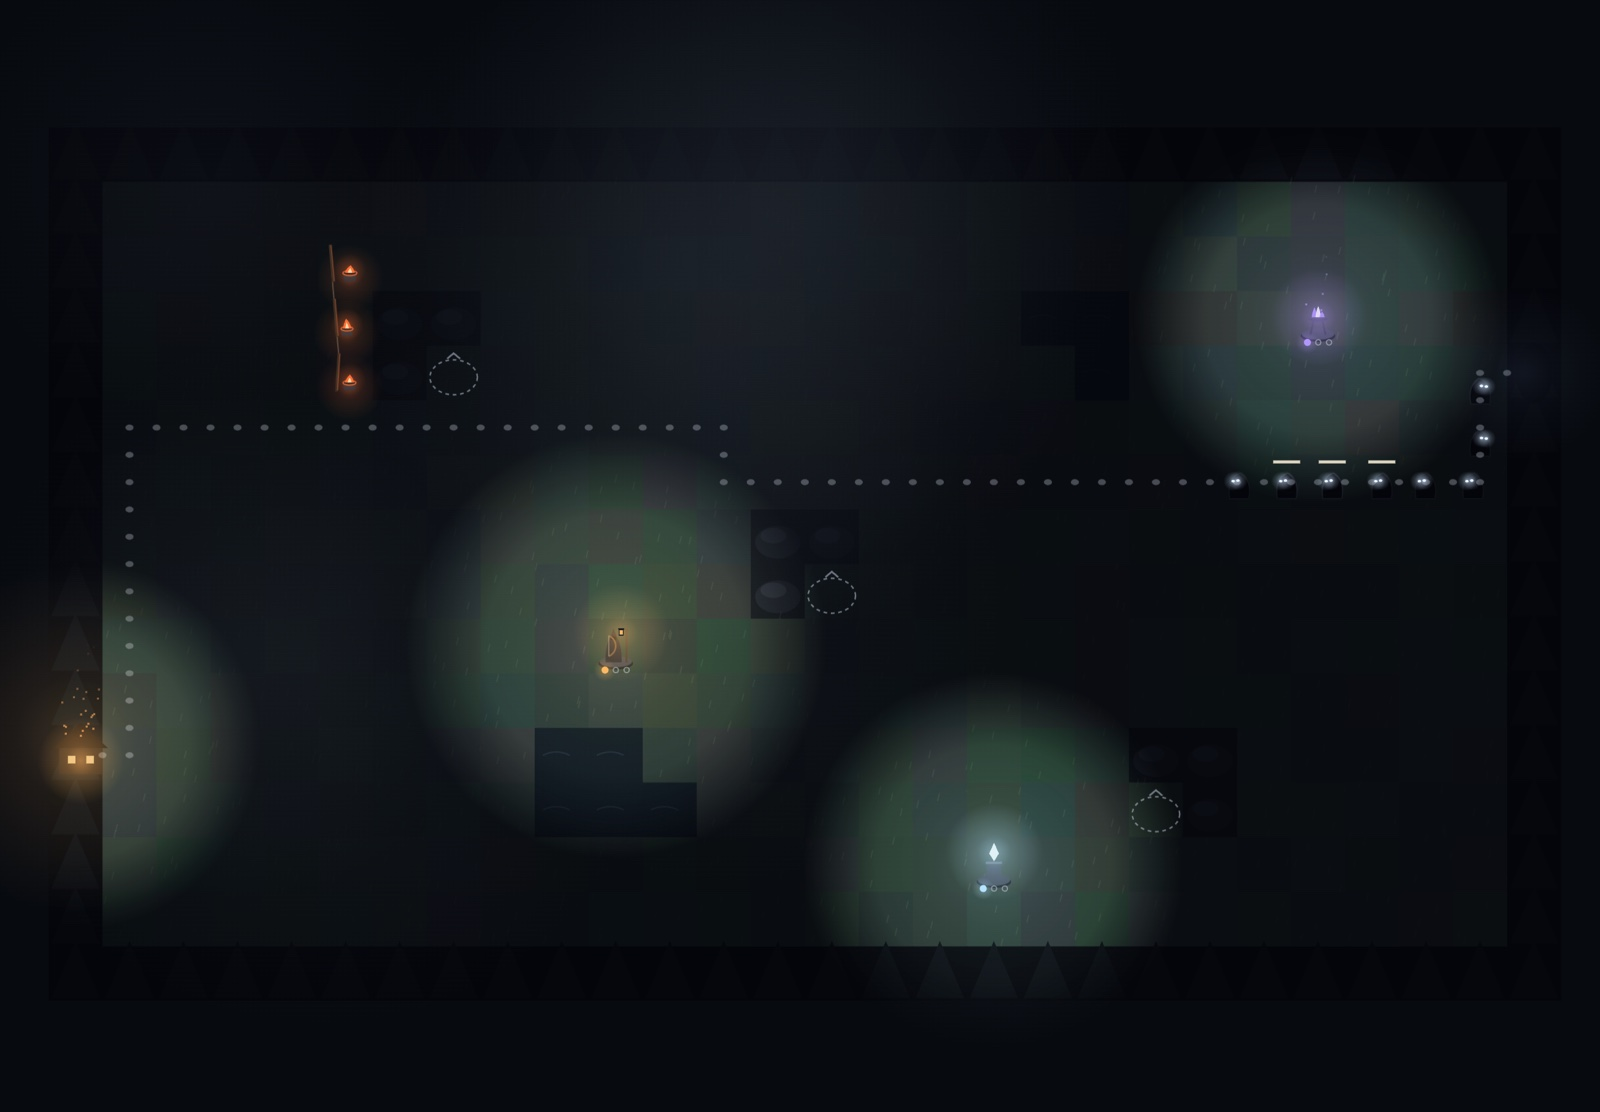
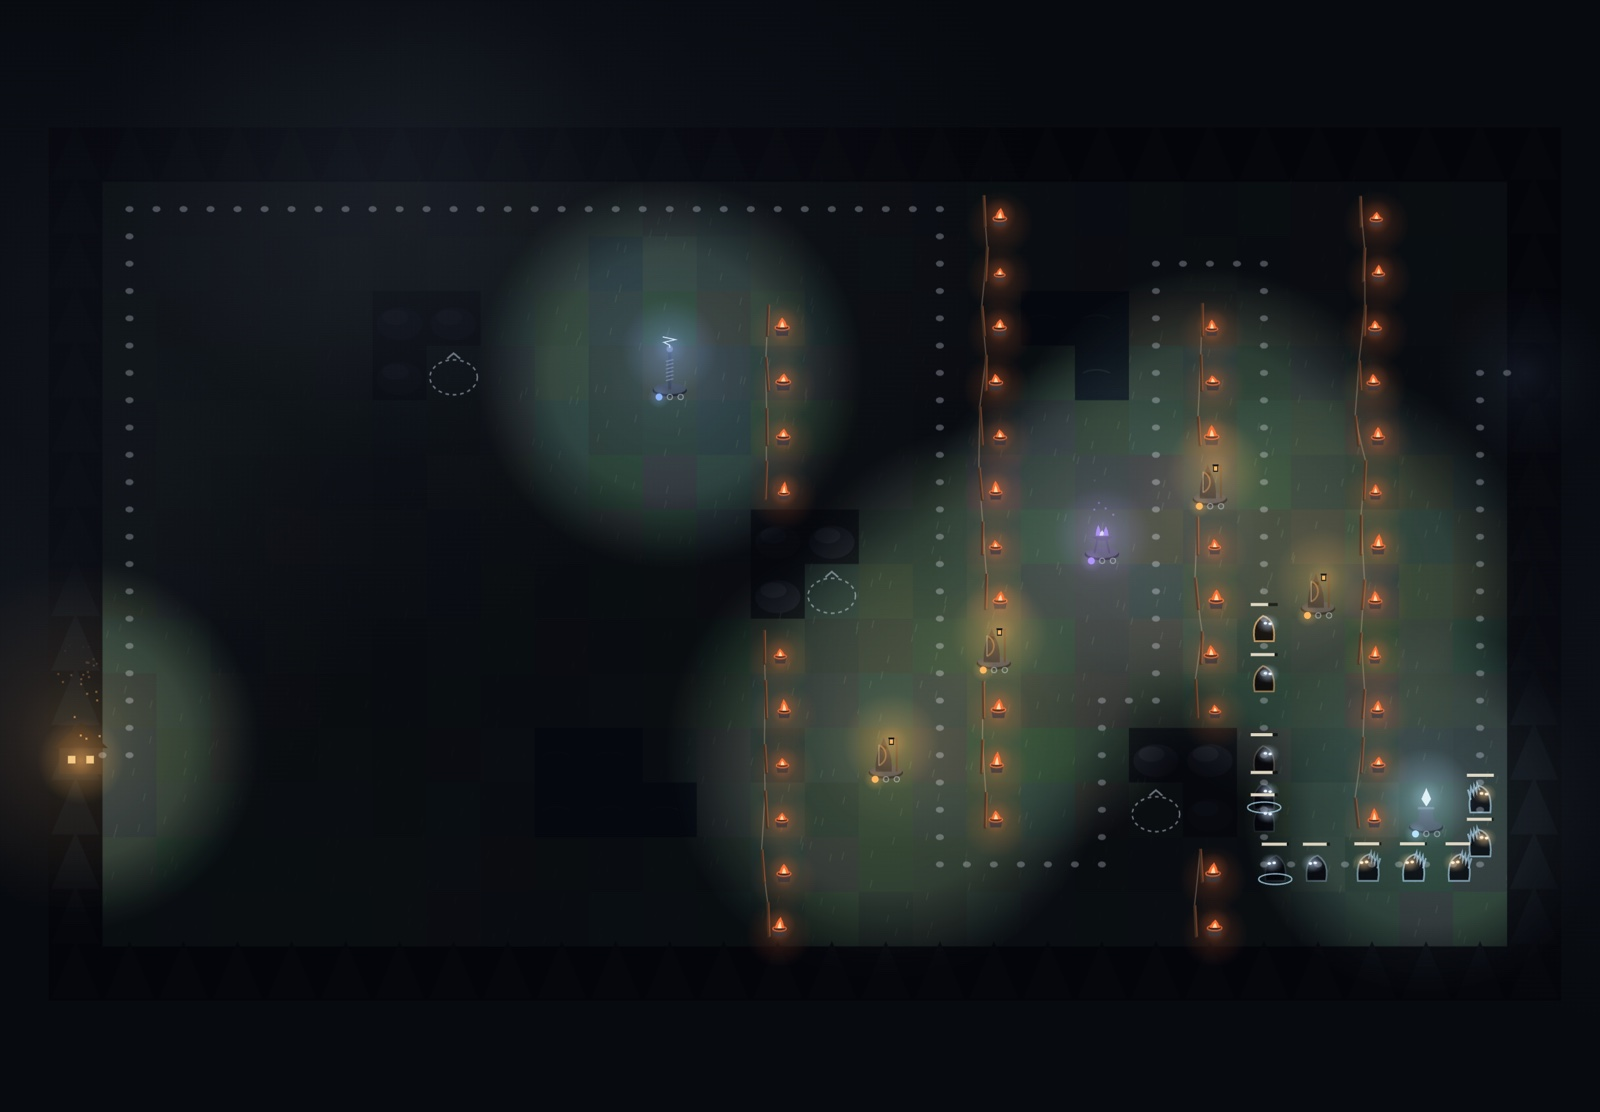
Reframe Where the Light Holds copy and use a maze screenshot
Drop the Warcraft III comparison; explain it as an easy-to-start game with
no clock, made to play on the side. New cover shows a planned serpentine
maze with towers along the lanes.

Changed region(s): [[0.25, 0.1529, 0.9688, 0.8561], [0.1875, 0.214, 0.25, 0.3669]]

diff --git a/src/content/projects/where-the-light-holds/+page.md b/src/content/projects/where-the-light-holds/+page.md
@@ -1,16 +1,18 @@
 ---
 title: 'Where the Light Holds'
 date: '2026-09-25'
-summary: 'A maze tower-defense for desktop browsers, inspired by the Warcraft III custom tower-defense maps. It runs in the browser with no install or account.'
+summary: 'A maze tower-defense for desktop browsers that is easy to get started with. No install or account, and the next wave only starts when you send it.'
 tags:
   - TypeScript
   - Canvas
   - Game
 cover: '/images/projects/where-the-light-holds/cover.jpg'
-coverAlt: 'A wave of dark foes with pale eyes walking the path past a violet tower light on The Moor'
+coverAlt: 'A wave of dark foes with pale eyes entering a winding maze of firepot walls, with tower lights along the lanes'
 liveUrl: 'https://where-the-light-holds.philip-bd6.workers.dev'
 published: true
 ---
+
+I wanted a tower defense game for myself, something easy to get started with that I could play in a browser on the side while doing other work. So there is no clock. You decide when the next wave starts, and you can leave the game sitting between waves for as long as you like.
 
 You build a maze out of firepots, which foes won't cross, and place towers whose lamplight is their reach. Foes avoid light when they can, so where you put light shapes their path. There are 30 waves, nine towers and one map, The Moor.
 
